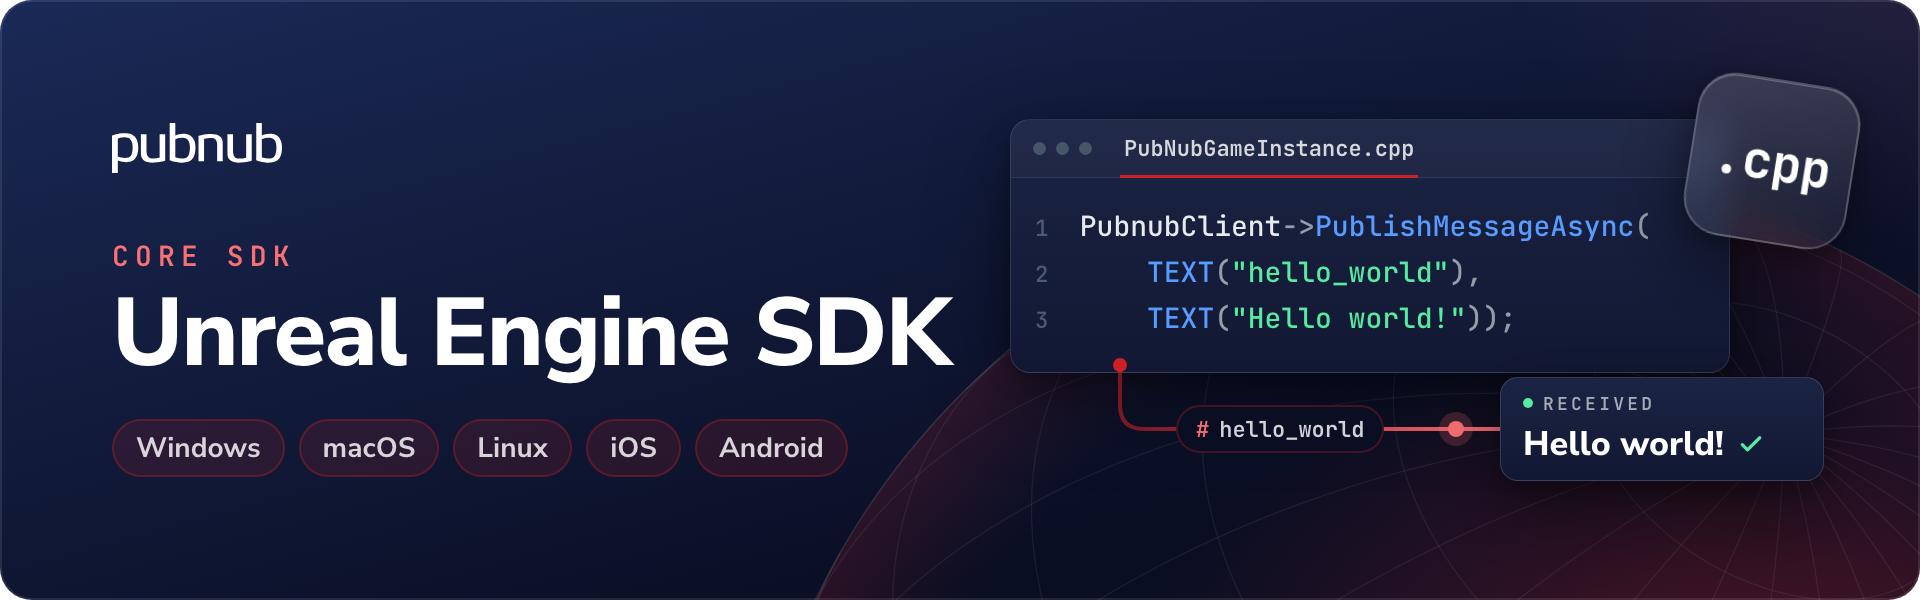
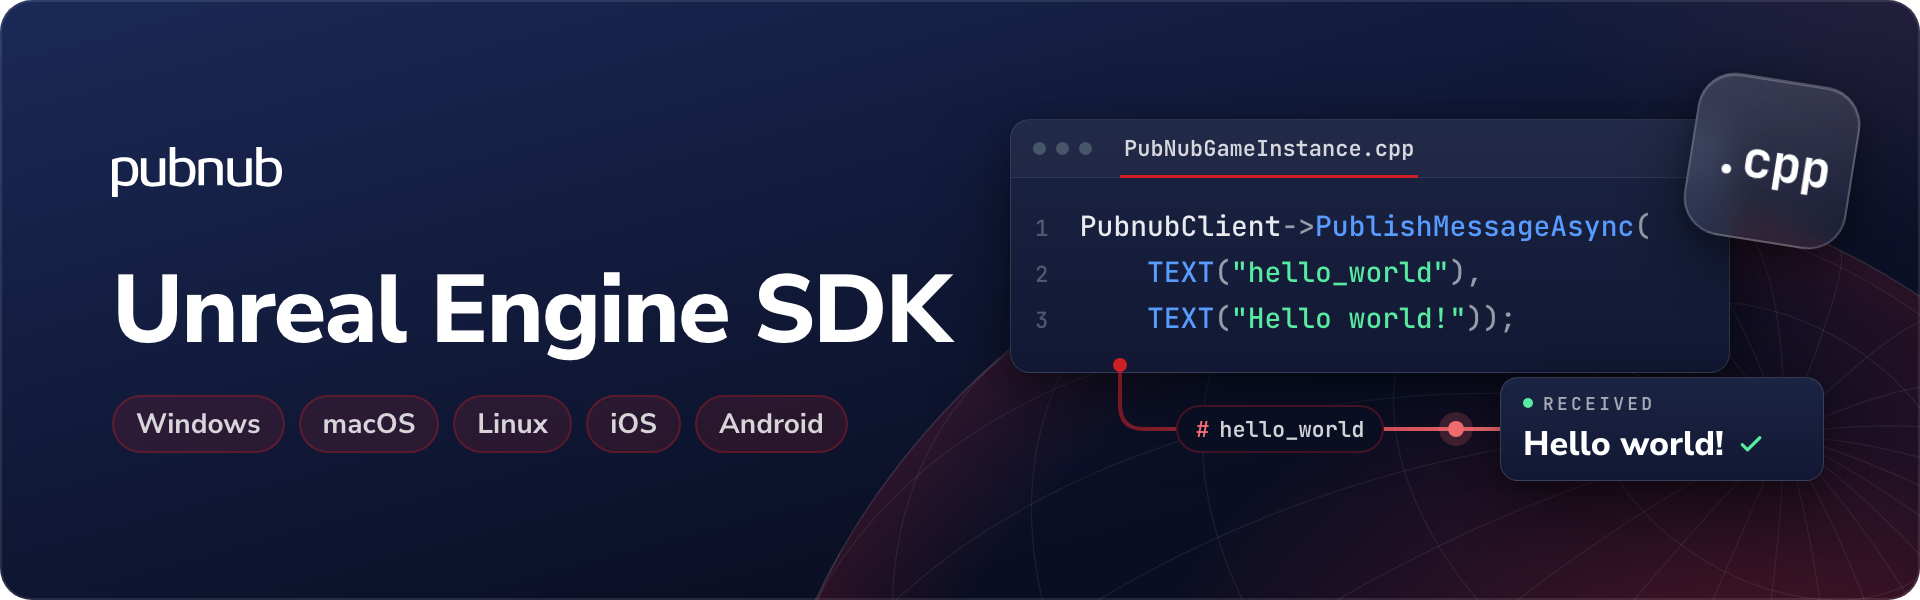
Update Readme.

Changed region(s): [[0.0312, 0.39, 0.5, 0.81], [0.0312, 0.21, 0.1562, 0.33]]

diff --git a/README.md b/README.md
@@ -2,76 +2,141 @@
 
 # PubNub Unreal Engine SDK
 
-<p align="center">
-  <img src="https://raw.githubusercontent.com/pubnub/rust/master/logo.svg" alt="PubNub" width="300"/>
-</p>
+[![PubNub Unreal SDK](https://img.shields.io/badge/PubNub_Unreal-2.1.0-blue)](https://www.fab.com/listings/9501a8d6-f9e6-4cf8-8b56-d173bdb71fc4)
 
-[![License: custom MIT](https://img.shields.io/badge/License-MIT-yellow.svg)](https://github.com/pubnub/rust/LICENSE)
+PubNub provides global infrastructure for real-time, interactive applications.
 
-Welcome to the official PubNub Unreal Engine SDK repository. [PubNub](https://www.pubnub.com/) provides the infrastructure and APIs needed for the realtime communication layer of your application. You can focus on building your app's logic while PubNub ensures data is sent and received across the world in less than 100ms.
+Publish and receive messages in Unreal Engine. Use this SDK for Unreal Engine applications using Blueprints or C++.
 
-## Getting Started
+[Documentation](https://www.pubnub.com/docs/sdks/unreal) · [API reference](https://www.pubnub.com/docs/sdks/unreal/api-reference/publish-and-subscribe) · [Changelog](https://www.pubnub.com/docs/sdks/unreal/changelog) · [Support](https://support.pubnub.com/)
 
-Below, you will find everything you need to begin messaging!
+## Requirements
 
-### Get PubNub Keys
+| Requirement | Supported version or setup |
+| --- | --- |
+| Unreal Engine | [Unreal Engine 5.2–5.7 through FAB; 5.0–5.7 from source](https://www.pubnub.com/docs/sdks/unreal/platform-support) |
+| Target platforms | [Windows, macOS, Linux/Unix, iOS, and Android](https://www.pubnub.com/docs/sdks/unreal/platform-support) |
+| C++ module | For C++ projects, add `"PubnubLibrary"` to `PrivateDependencyModuleNames` in the project's `.Build.cs` file. |
 
-You will need publish and subscribe keys to authenticate your app. Get your keys from the [Admin Portal](https://dashboard.pubnub.com/login).
+## Installation
 
-### Configure Unreal Engine
+Install the SDK from FAB. For source installation, clone the repository into the project's `Plugins/Pubnub` directory:
 
-1. Download and [install Unreal Engine](https://dev.epicgames.com/documentation/pl-pl/unreal-engine/installing-unreal-engine) version 5.0 or higher.
-2. Create a new blank Unreal project at a location of your choice.
-3. Create an empty `Plugins` folder in the location of your Unreal project.
+```sh
+git clone https://github.com/pubnub/unreal-engine.git Plugins/Pubnub
+```
 
-### Download the SDK
+For other installation methods, see the [Unreal SDK documentation](https://www.pubnub.com/docs/sdks/unreal).
 
-Within the `Plugins` folder of your Unreal project, clone the Unreal SDK repository: [https://github.com/pubnub/unreal-engine](https://github.com/pubnub/unreal-engine "SDK source-code repository on GitHub").
+## Quickstart
 
-### Blueprints and Sample Code
+This example runs in an Unreal Engine C++ project. It subscribes to `hello_world`, publishes one message, and prints the received text.
 
-Each PubNub API is available through Blueprints and C++ code. For further information on using and configuring the workspace and the Unreal Engine project, refer to the [PubNub Unreal SDK documentation](https://www.pubnub.com/docs/sdks/unreal).
+### Get your keys
 
-![Using docs](readme_content/using_docs.gif)
+1. Open the [PubNub Admin Portal](https://admin.pubnub.com/).
+2. Create an app and a keyset for development, or select an existing development keyset.
+3. Copy its publish key and subscribe key.
 
-You can copy the Blueprints from the docs and paste them into your Unreal Editor.
+For a distributed game client, obtain a scoped token from your trusted backend and call `PubnubClient->SetAuthToken(Token)` before accessing protected resources. Never ship the secret key in the game.
 
-## Security
+### Send and receive a message
 
-### Keys and credentials
+Create the PubNub client from `UPubnubSubsystem` in a GameInstance or other session-owned class. Keep the client as a `UPROPERTY()` member. Include `PubnubSubsystem.h`.
 
-PubNub provides three keys per keyset:
+Replace the key placeholders. Use a User ID that identifies the user or device in your app.
 
-| Key | Safe for client builds | Purpose |
-| --- | --- | --- |
-| Publish Key | Yes | Publish messages |
-| Subscribe Key | Yes | Subscribe to channels |
-| Secret Key | **No** | Root/admin access to the entire keyset |
+`PubnubClient` below is a `UPROPERTY() TObjectPtr<UPubnubClient>` on that class. Call this from a context that has `GetGameInstance()`, such as `BeginPlay`.
 
-The **Secret Key grants unrestricted permissions** on your keyset — publish on any channel, read history, mint or revoke PAM tokens, and modify App Context data. **Never ship a Secret Key in a game client build.**
+```cpp
+UPubnubSubsystem* PubnubSubsystem = GetGameInstance()->GetSubsystem<UPubnubSubsystem>();
 
-Global plugin settings (`Project Settings → Pubnub SDK`) store only the Publish Key and Subscribe Key. These are safe to include in `DefaultEngine.ini` and packaged client builds.
+FPubnubConfig Config;
+Config.PublishKey = TEXT("YOUR_PUBLISH_KEY");
+Config.SubscribeKey = TEXT("YOUR_SUBSCRIBE_KEY");
+Config.UserID = TEXT("hello-world-user");
 
-### Recommended architecture
+PubnubClient = PubnubSubsystem->CreatePubnubClient(Config);
 
-**Game clients (shipped builds):**
+PubnubClient->OnMessageReceivedNative.AddLambda([](const FPubnubMessageData& Message)
+{
+    UE_LOG(LogTemp, Log, TEXT("%s"), *Message.Message);
+});
 
-1. Configure only Publish Key and Subscribe Key (via plugin settings or `FPubnubConfig`).
-2. Obtain a scoped PAM v3 access token from your backend.
-3. Call `SetAuthToken` on the client before subscribing or publishing.
+PubnubClient->SubscribeToChannel(TEXT("hello_world"));
 
-**Dedicated servers / backend tooling:**
+// Subscription setup can take a moment before the client can receive messages.
+FPlatformProcess::Sleep(2.0f);
 
-1. Provide the Secret Key in `FPubnubConfig` when calling `CreatePubnubClient` — not in global plugin settings.
-2. Load the Secret Key from a secure source (environment variable, server-only config, secrets manager).
-3. Use `GrantToken` / `RevokeToken` / `SetSecretKey` only in server-side code.
+PubnubClient->PublishMessageAsync(TEXT("hello_world"), TEXT("Hello world"));
 
-For more details, see the [PubNub Access Manager documentation](https://www.pubnub.com/docs/general/setup/access-manager).
+// Give the message time to arrive, then leave the channel.
+FPlatformProcess::Sleep(2.0f);
+PubnubClient->UnsubscribeFromChannel(TEXT("hello_world"));
+```
 
-## Support
+### Run the example
 
-If you **need help** or have a **general question**, contact [support@pubnub.com](mailto:support@pubnub.com).
+Build the project and start Play In Editor.
+
+The Unreal Output Log should show:
+
+```text
+Hello world
+```
+
+The example calls `UnsubscribeFromChannel` after the message has had time to arrive. Keep the `UPubnubClient` strongly referenced for the owning session, unsubscribe listeners and channels when they are no longer needed, and destroy the client with its owning Unreal lifecycle. Reuse one PubNub client for the user or session rather than creating a client for every operation.
+
+For a complete application, see [the getting started guide](https://www.pubnub.com/docs/sdks/unreal).
+
+## Next steps
+
+| Task | Documentation |
+| --- | --- |
+| Configure the client | [Configuration](https://www.pubnub.com/docs/sdks/unreal/api-reference/configuration) |
+| Work with subscriptions and messages | [Publish & Subscribe](https://www.pubnub.com/docs/sdks/unreal/api-reference/publish-and-subscribe) |
+| Check channel occupancy | [Presence](https://www.pubnub.com/docs/sdks/unreal/api-reference/presence) |
+| Read message history | [Message Persistence](https://www.pubnub.com/docs/sdks/unreal/api-reference/storage-and-playback) |
+
+## Build with an AI coding assistant
+
+The [PubNub MCP server](https://www.pubnub.com/docs/ai/pubnub-mcp-server) gives an AI coding assistant access to PubNub SDK documentation and PubNub APIs. Connect the assistant to the hosted server at `https://mcp.pubnub.com`, or run `npx @pubnub/mcp@latest` locally.
+
+The [server repository](https://github.com/pubnub/pubnub-mcp-server) has setup steps for VS Code, Cursor, Claude Code, Claude Desktop, Codex, Gemini CLI, and OpenCode.
+
+## Before production
+
+Use [Access Manager](https://www.pubnub.com/docs/sdks/unreal/api-reference/access-manager) to grant each client the permissions it needs. Keep the secret key on your backend. Never include it in a distributed client.
+
+Create `UPubnubClient` from `UPubnubSubsystem` and keep it for the owning game or session lifetime. Call `UnsubscribeFromChannel` when an individual channel is no longer needed, `UnsubscribeFromAll` to stop all subscriptions, and `DestroyClient` when the client itself is no longer needed. Use `SetAuthToken` with a backend-issued token in distributed clients.
+
+Live delivery through PubNub SDKs is at-most-once. A subscriber can miss messages while disconnected or if its buffer overflows. For longer-gap recovery, see [Message Persistence](https://www.pubnub.com/docs/sdks/unreal/api-reference/storage-and-playback).
+
+## Troubleshooting
+
+| Symptom | Check |
+| --- | --- |
+| C++ build cannot resolve PubNub headers or module symbols | Add `"PubnubLibrary"` to `PrivateDependencyModuleNames`, regenerate project files if necessary, and rebuild. See the [Unreal SDK](https://www.pubnub.com/docs/sdks/unreal). |
+| A publish succeeds but no message appears | Check the message handler, subscription readiness, keyset, and channel name. |
+| A packaged Blueprint project fails although it works in Editor | Follow the packaging-specific fixes in [Unreal troubleshooting](https://www.pubnub.com/docs/sdks/unreal/troubleshoot), including the documented Blueprint-only packaging requirements. |
+| Extra clients or duplicate messages during development | Own the PubNub client and listeners at GameInstance or another session-lifetime scope rather than recreating them whenever an Actor is reconstructed. |
+
+For setup help, see [troubleshooting](https://www.pubnub.com/docs/sdks/unreal/troubleshoot). Check [network status](https://status.pubnub.com/) for service incidents.
+
+## Releases
+
+Read the [changelog](https://www.pubnub.com/docs/sdks/unreal/changelog) before upgrading.
+
+For a major version change, follow the [Unreal SDK 2.x migration guide](https://www.pubnub.com/docs/sdks/unreal/migration-guides/unreal-v2-migration-guide) and review the [changelog](https://www.pubnub.com/docs/sdks/unreal/changelog).
+
+## Support and contributions
+
+For setup or account help, contact [PubNub Support](https://support.pubnub.com/).
+
+For a reproducible SDK bug, use [GitHub Issues](https://github.com/pubnub/unreal-engine/issues). Include the SDK version, runtime, and a small reproduction with credentials removed.
+
+Build and test the plugin against a supported Unreal Engine version and include a reproducible test or project for behavioral changes before opening a pull request.
 
 ## License
 
-This project is licensed under a [custom MIT license](https://github.com/pubnub/unreal/blob/master/LICENSE). For more details about the license, refer to the [License FAQ](https://www.pubnub.com/docs/sdks/license-faq).
+See the [PubNub Software Development Kit License Agreement](https://github.com/pubnub/unreal-engine/blob/master/LICENSE).
